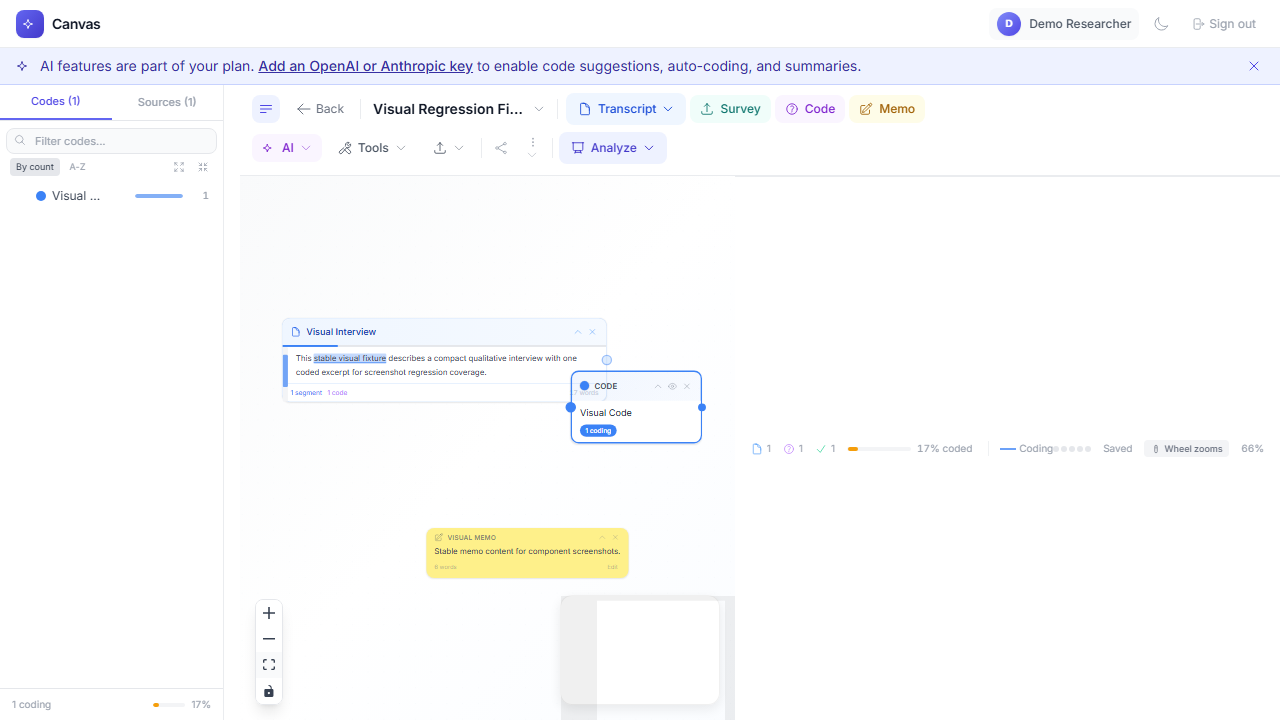
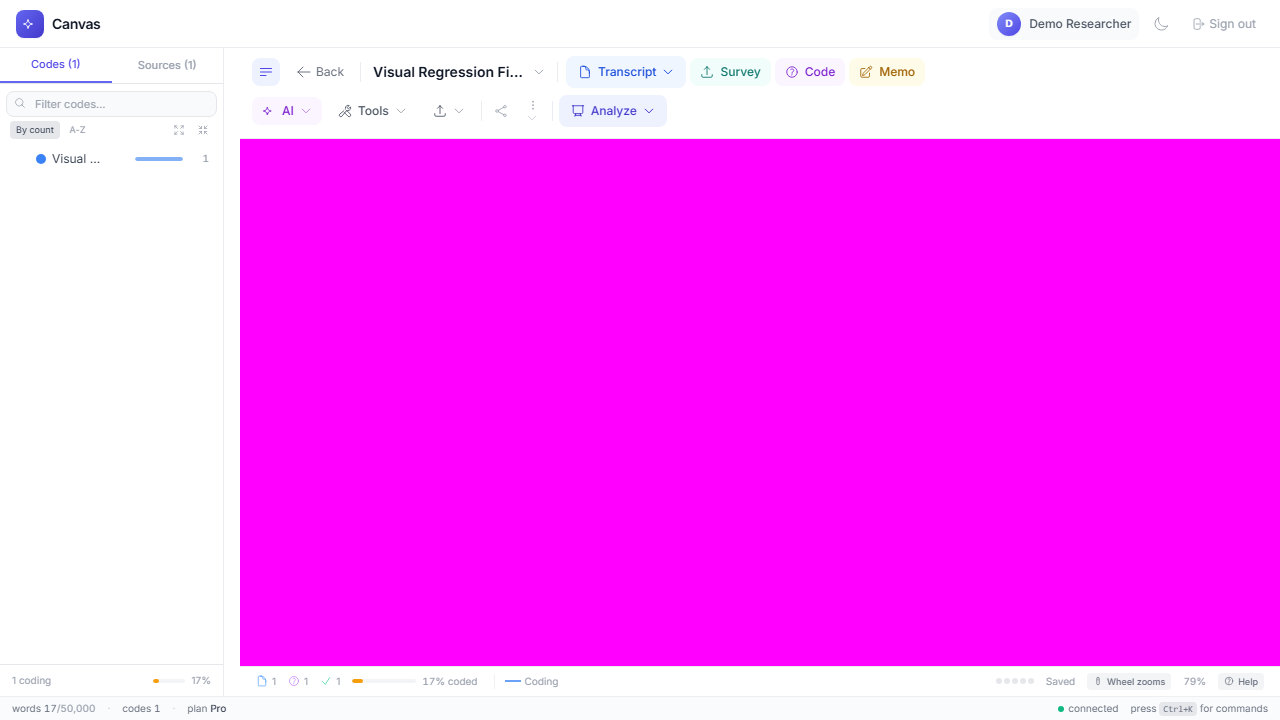
fix(ux): first-session polish for non-technical researchers
- Feature tooltips queue (one at a time): on a brand-new user's first canvas
  the Tools and Export tips fired simultaneously on adjacent buttons,
  overlapping into an unreadable black stack — the very first impression of
  the workspace. A module-level lock in FeatureTooltip now shows the next
  tip only when the current one is dismissed.
- Visible Help: a "? Help" menu in the status bar (tour / keyboard
  shortcuts / user guide). These existed but only inside the unlabelled "⋯"
  overflow, which novices never open. Status bar placement deliberately
  avoids the width-budgeted toolbar (adding a toolbar button wrapped it to
  two rows at 1280px).
- Empty-canvas state meets contrast: heading/body/step text were
  gray-300/400 (~1.6–2.8:1) on the one screen whose job is orientation.
- Cookie banner becomes a compact floating card on /canvas so it no longer
  covers the status bar; marketing pages keep the full-width banner.
- Login: the legacy access-code section says who it's for when expanded.
- Canvas cards: aria-labels on the icon+count stats (titles existed; now
  announced). Visible text labels deferred — they'd invalidate the Linux
  visual baseline, which can't be regenerated from this machine.
- Refreshed the stale canvas-workspace win32 snapshot (failed on clean main
  before these changes; CI uses the Linux baselines).

diff --git a/apps/frontend/src/components/canvas/panels/HelpMenu.tsx b/apps/frontend/src/components/canvas/panels/HelpMenu.tsx
@@ -1,0 +1,101 @@
+import { useEffect, useRef, useState } from 'react';
+import { useUIStore } from '../../../stores/uiStore';
+
+// A small, ALWAYS-VISIBLE "Help" entry point in the status bar. The product
+// tour and keyboard shortcuts existed before this, but only inside the
+// unlabelled "⋯" toolbar overflow — which non-technical users never open.
+// The status bar is the one place a help affordance fits at every viewport
+// without pushing the (width-budgeted) toolbar onto a second row.
+export default function HelpMenu({ onShowShortcuts }: { onShowShortcuts: () => void }) {
+  const [open, setOpen] = useState(false);
+  const ref = useRef<HTMLDivElement>(null);
+  const openFullProductTour = useUIStore((s) => s.openFullProductTour);
+
+  useEffect(() => {
+    if (!open) return;
+    const onDown = (e: MouseEvent) => {
+      if (!ref.current?.contains(e.target as Node)) setOpen(false);
+    };
+    const onKey = (e: KeyboardEvent) => {
+      if (e.key === 'Escape') setOpen(false);
+    };
+    document.addEventListener('mousedown', onDown);
+    document.addEventListener('keydown', onKey);
+    return () => {
+      document.removeEventListener('mousedown', onDown);
+      document.removeEventListener('keydown', onKey);
+    };
+  }, [open]);
+
+  const item =
+    'flex w-full items-center gap-2 px-3 py-1.5 text-left text-xs text-gray-600 hover:bg-gray-50 dark:text-gray-300 dark:hover:bg-gray-700';
+
+  return (
+    <div ref={ref} className="relative">
+      <button
+        onClick={() => setOpen((o) => !o)}
+        className="flex items-center gap-1 rounded bg-gray-100 px-1.5 py-0.5 text-[9px] font-medium text-gray-500 hover:bg-gray-200 hover:text-gray-700 dark:bg-gray-700 dark:text-gray-400 dark:hover:bg-gray-600 dark:hover:text-gray-300 transition-colors"
+        title="Help — tour, shortcuts, user guide"
+        aria-label="Help"
+        aria-expanded={open}
+        aria-haspopup="menu"
+      >
+        <svg
+          className="h-2.5 w-2.5"
+          fill="none"
+          viewBox="0 0 24 24"
+          strokeWidth={1.8}
+          stroke="currentColor"
+          aria-hidden="true"
+        >
+          <path
+            strokeLinecap="round"
+            strokeLinejoin="round"
+            d="M9.879 7.519c1.171-1.025 3.071-1.025 4.242 0 1.172 1.025 1.172 2.687 0 3.712-.203.179-.43.326-.67.442-.745.361-1.45.999-1.45 1.827v.75M21 12a9 9 0 1 1-18 0 9 9 0 0 1 18 0Zm-9 5.25h.008v.008H12v-.008Z"
+          />
+        </svg>
+        Help
+      </button>
+      {open && (
+        <div
+          role="menu"
+          className="absolute bottom-full right-0 z-50 mb-1.5 w-48 rounded-lg border border-gray-200 bg-white py-1 shadow-lg dark:border-gray-700 dark:bg-gray-800"
+        >
+          <button
+            role="menuitem"
+            className={item}
+            onClick={() => {
+              setOpen(false);
+              openFullProductTour();
+            }}
+          >
+            Take the product tour
+          </button>
+          <button
+            role="menuitem"
+            className={item}
+            onClick={() => {
+              setOpen(false);
+              onShowShortcuts();
+            }}
+          >
+            Keyboard shortcuts
+            <kbd className="ml-auto rounded bg-gray-100 px-1 font-mono text-[9px] text-gray-400 dark:bg-gray-700">
+              ?
+            </kbd>
+          </button>
+          <button
+            role="menuitem"
+            className={item}
+            onClick={() => {
+              setOpen(false);
+              window.open('/guide', '_blank', 'noopener');
+            }}
+          >
+            User guide
+          </button>
+        </div>
+      )}
+    </div>
+  );
+}

diff --git a/apps/frontend/src/components/FeatureTooltip.tsx b/apps/frontend/src/components/FeatureTooltip.tsx
@@ -3,6 +3,41 @@ import { useUIStore, type FeatureDiscovery } from '../stores/uiStore';
 
 // Small, auto-dismissing popover that teaches one feature on first encounter.
 // Each feature fires at most once per browser (persisted in uiStore).
+//
+// Tooltips queue: only ONE is visible at a time. Without this, a brand-new
+// user's first canvas showed several at once (e.g. the Tools and Export tips,
+// on adjacent toolbar buttons) physically overlapping into an unreadable
+// stack. Each instance requests a module-level lock; the next in line shows
+// when the current one is dismissed.
+let tooltipLockHeld = false;
+const tooltipWaiters: Array<() => void> = [];
+
+function acquireTooltipLock(onAcquired: () => void): () => void {
+  let granted = false;
+  const tryGrant = () => {
+    granted = true;
+    tooltipLockHeld = true;
+    onAcquired();
+  };
+  if (!tooltipLockHeld) tryGrant();
+  else tooltipWaiters.push(tryGrant);
+  // Release: pass the lock to the next waiter (or free it). Idempotent — it
+  // can be called from both dismiss() and the effect cleanup. Also handles
+  // cancellation while still queued.
+  let released = false;
+  return () => {
+    if (released) return;
+    released = true;
+    if (!granted) {
+      const i = tooltipWaiters.indexOf(tryGrant);
+      if (i >= 0) tooltipWaiters.splice(i, 1);
+      return;
+    }
+    const next = tooltipWaiters.shift();
+    if (next) next();
+    else tooltipLockHeld = false;
+  };
+}
 interface Props {
   feature: keyof FeatureDiscovery;
   title: string;
@@ -30,11 +65,23 @@ export default function FeatureTooltip({
   const markSeen = useUIStore((s) => s.markFeatureSeen);
   const [visible, setVisible] = useState(false);
 
+  const [release, setRelease] = useState<(() => void) | null>(null);
+
   useEffect(() => {
     if (disabledForE2e || !enabled || seen) return;
-    // Slight delay so the trigger element is laid out.
-    const show = window.setTimeout(() => setVisible(true), 300);
-    return () => window.clearTimeout(show);
+    let releaseLock: (() => void) | null = null;
+    // Slight delay so the trigger element is laid out, then wait our turn —
+    // only one feature tip shows at a time (see queue above).
+    const show = window.setTimeout(() => {
+      releaseLock = acquireTooltipLock(() => {
+        setVisible(true);
+        setRelease(() => releaseLock);
+      });
+    }, 300);
+    return () => {
+      window.clearTimeout(show);
+      releaseLock?.();
+    };
   }, [disabledForE2e, enabled, seen]);
 
   useEffect(() => {
@@ -47,6 +94,8 @@ export default function FeatureTooltip({
   const dismiss = () => {
     setVisible(false);
     markSeen(feature);
+    release?.();
+    setRelease(null);
   };
 
   if (disabledForE2e) {

diff --git a/apps/frontend/public/cookie-consent.css b/apps/frontend/public/cookie-consent.css
@@ -137,3 +137,31 @@
     justify-content: flex-end;
   }
 }
+
+/* Compact variant for the canvas workspace — a floating card bottom-left so
+   the canvas status bar (coding stats, zoom) stays visible. */
+#cookie-consent-banner.cc-compact {
+  left: 16px;
+  right: auto;
+  bottom: 44px; /* clear of the ~32px status bar */
+  max-width: 400px;
+  border: 1px solid rgba(15, 23, 42, 0.1);
+  border-radius: 12px;
+  box-shadow: 0 8px 30px rgba(0, 0, 0, 0.12);
+}
+
+#cookie-consent-banner.cc-compact .cc-inner {
+  flex-direction: column;
+  align-items: flex-start;
+  gap: 10px;
+}
+
+#cookie-consent-banner.cc-compact .cc-buttons {
+  align-self: flex-end;
+}
+
+@media (prefers-color-scheme: dark) {
+  #cookie-consent-banner.cc-compact {
+    border-color: rgba(255, 255, 255, 0.1);
+  }
+}

diff --git a/apps/frontend/src/components/canvas/CanvasWorkspace.tsx b/apps/frontend/src/components/canvas/CanvasWorkspace.tsx
@@ -25,6 +25,7 @@ import { useContainerSize } from '../../hooks/useContainerSize';
 import CodingDetailPanel from './panels/CodingDetailPanel';
 import CanvasSearchOverlay from './panels/CanvasSearchOverlay';
 import CommandPalette from './panels/CommandPalette';
+import HelpMenu from './panels/HelpMenu';
 import FullProductTour from '../help/FullProductTour';
 import WiseshiftWalkthrough from './WiseshiftWalkthrough';
 import CanvasContextMenu from './panels/CanvasContextMenu';
@@ -2744,10 +2745,12 @@ export default function CanvasWorkspace() {
                       </svg>
                     </div>
 
-                    {/* Heading */}
-                    <h3 className="text-xl font-semibold text-gray-400 dark:text-gray-500">Your workspace is ready</h3>
-                    <p className="mt-2 text-sm text-gray-300 dark:text-gray-600 max-w-sm mx-auto leading-relaxed">
-                      Start by adding your interview transcripts, then create research questions to begin coding.
+                    {/* Heading — readable grays: this screen's whole job is to
+                        orient a brand-new user, so it must meet contrast, not
+                        whisper (was gray-400/gray-300 ≈ 1.6–2.8:1). */}
+                    <h3 className="text-xl font-semibold text-gray-700 dark:text-gray-200">Your workspace is ready</h3>
+                    <p className="mt-2 text-sm text-gray-500 dark:text-gray-400 max-w-sm mx-auto leading-relaxed">
+                      Start by adding your interview transcripts, then create codes to label what matters in them.
                     </p>
 
                     {/* Steps */}
@@ -2769,8 +2772,8 @@ export default function CanvasWorkspace() {
                           </svg>
                         </div>
                         <div>
-                          <p className="text-xs font-medium text-gray-400 dark:text-gray-500">Step 1</p>
-                          <p className="text-[11px] text-gray-300 dark:text-gray-600">Add transcripts</p>
+                          <p className="text-xs font-medium text-gray-600 dark:text-gray-300">Step 1</p>
+                          <p className="text-[11px] text-gray-500 dark:text-gray-400">Add transcripts</p>
                         </div>
                       </div>
                       <div className="flex flex-col items-center gap-2">
@@ -2790,8 +2793,8 @@ export default function CanvasWorkspace() {
                           </svg>
                         </div>
                         <div>
-                          <p className="text-xs font-medium text-gray-400 dark:text-gray-500">Step 2</p>
-                          <p className="text-[11px] text-gray-300 dark:text-gray-600">Create questions</p>
+                          <p className="text-xs font-medium text-gray-600 dark:text-gray-300">Step 2</p>
+                          <p className="text-[11px] text-gray-500 dark:text-gray-400">Create codes</p>
                         </div>
                       </div>
                       <div className="flex flex-col items-center gap-2">
@@ -2807,14 +2810,14 @@ export default function CanvasWorkspace() {
                           </svg>
                         </div>
                         <div>
-                          <p className="text-xs font-medium text-gray-400 dark:text-gray-500">Step 3</p>
-                          <p className="text-[11px] text-gray-300 dark:text-gray-600">Select text & code</p>
+                          <p className="text-xs font-medium text-gray-600 dark:text-gray-300">Step 3</p>
+                          <p className="text-[11px] text-gray-500 dark:text-gray-400">Select text & code</p>
                         </div>
                       </div>
                     </div>
 
                     {/* Hint */}
-                    <p className="mt-6 text-[11px] text-gray-300 dark:text-gray-600">
+                    <p className="mt-6 text-[11px] text-gray-500 dark:text-gray-400">
                       Drop .txt/.csv files to import &middot; Double-click canvas to quick-add &middot; Press{' '}
                       <kbd className="rounded bg-gray-100 dark:bg-gray-700 px-1 py-0.5 font-mono text-[10px]">
                         Ctrl+K
@@ -3040,6 +3043,7 @@ export default function CanvasWorkspace() {
                     {scrollMode === 'zoom' ? 'Wheel zooms' : 'Wheel pans'}
                   </button>
                   <span className="tabular-nums">{zoomLevel}%</span>
+                  <HelpMenu onShowShortcuts={() => setShowShortcuts(true)} />
                 </div>
               </div>
             )}

diff --git a/apps/frontend/public/cookie-consent.js b/apps/frontend/public/cookie-consent.js
@@ -42,6 +42,12 @@
   banner.id = 'cookie-consent-banner';
   banner.setAttribute('role', 'region');
   banner.setAttribute('aria-label', 'Cookie consent');
+  // In the canvas workspace the full-width bar covered the status bar (which
+  // holds the coding stats). Use a compact floating card there instead;
+  // marketing pages keep the standard full-width banner.
+  if (window.location.pathname.indexOf('/canvas') === 0) {
+    banner.className = 'cc-compact';
+  }
   banner.innerHTML =
     '<div class="cc-inner">' +
       '<p>We use cookies for analytics and to improve your experience. ' +

diff --git a/apps/frontend/src/pages/LoginPage.tsx b/apps/frontend/src/pages/LoginPage.tsx
@@ -565,6 +565,11 @@ export default function LoginPage() {
             </button>
             {showAccessCode && (
               <form onSubmit={handleAccessCodeLogin} className="mt-4 space-y-3">
+                {/* Orient non-technical users: with two sign-in forms stacked
+                    on one page, say plainly who this second one is for. */}
+                <p className="text-xs text-gray-500 dark:text-gray-400">
+                  Access codes are used for workshops, demos, and legacy accounts. Most users sign in with email above.
+                </p>
                 <label
                   htmlFor="access-code-input"
                   className="block text-sm font-medium text-gray-700 dark:text-gray-300"

diff --git a/apps/frontend/src/components/canvas/panels/CanvasListPanel.tsx b/apps/frontend/src/components/canvas/panels/CanvasListPanel.tsx
@@ -667,6 +667,7 @@ export default function CanvasListPanel() {
                     <span
                       className="flex items-center gap-1"
                       title={`${canvas._count.transcripts} transcript${canvas._count.transcripts === 1 ? '' : 's'}`}
+                      aria-label={`${canvas._count.transcripts} transcript${canvas._count.transcripts === 1 ? '' : 's'}`}
                     >
                       <svg
                         className="h-3 w-3 text-blue-400"
@@ -686,6 +687,7 @@ export default function CanvasListPanel() {
                     <span
                       className="flex items-center gap-1"
                       title={`${canvas._count.questions} code${canvas._count.questions === 1 ? '' : 's'}`}
+                      aria-label={`${canvas._count.questions} code${canvas._count.questions === 1 ? '' : 's'}`}
                     >
                       <svg
                         className="h-3 w-3 text-purple-400"
@@ -705,6 +707,7 @@ export default function CanvasListPanel() {
                     <span
                       className="flex items-center gap-1"
                       title={`${canvas._count.codings} coding${canvas._count.codings === 1 ? '' : 's'}`}
+                      aria-label={`${canvas._count.codings} coding${canvas._count.codings === 1 ? '' : 's'}`}
                     >
                       <svg
                         className="h-3 w-3 text-emerald-400"